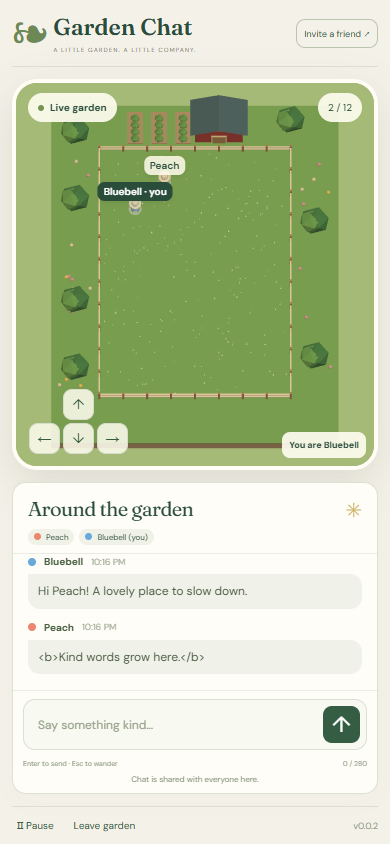
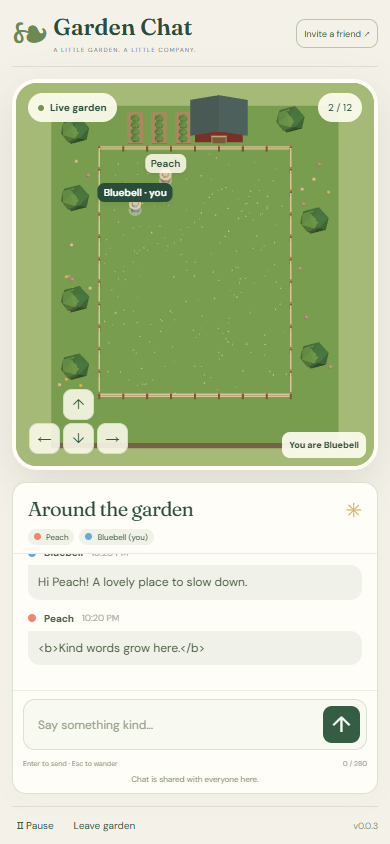
Record public release verification and complete OpenSpec delivery

Changed region(s): [[0.0615, 0.6469, 0.6462, 0.8009], [0.2462, 0.1848, 0.4923, 0.2464], [0.0615, 0.6469, 0.0923, 0.6777]]

diff --git a/project-name/documentation/verification.md b/project-name/documentation/verification.md
@@ -13,3 +13,15 @@
 - OpenSpec: four changes validated strictly. First three implementation systems verified; public delivery is completed after release/public checks.
 
 Public release verification will be recorded below after deployment.
+
+## Public release verified
+
+- Game release: v0.0.3, tag commit 48f1ef6, release workflow 36611172946 passed; Pages workflow 36611202705 passed.
+- Public URL: https://samuelasherrivello.github.io/babylon-lite-garden-chat/
+- Public version.txt returned version=0.0.3 and browser screenshot shows v0.0.3.
+- Full browser suite repeated successfully against that public URL: two independent sessions, rendering/assets, keyboard, collision, pause, focus safety, chat relay/plain-text rendering, late history, mobile touch emulation/layout, scroll preservation, leave/rejoin, blur release and unsupported GPU message. No supported-page runtime errors.
+- Shared service was independently extended by concurrent work to v0.5.0 during delivery. Public verification passed against live v0.5.0 while Garden Chat remains pinned to the compatible released v0.3.0 client. The Garden extension's own v0.3.0 release/deployment remains independently verified.
+- All 41 imported shared-library files and 37 Blender-package files match their source bytes.
+- Clean npm ci succeeded after stopping the local Vite processes that held Windows native module locks.
+- Canonical README screenshot refreshed from the actual public v0.0.3 game. Browser evidence: public-browser-verification.json.
+- Physical mobile hardware and long-lived production scaling remain unverified; experimental hosting and session-only history are documented.

diff --git a/README.md b/README.md
@@ -40,6 +40,8 @@ Uses [RMC Colyseus Multiplayer Server v0.3.0](https://github.com/SamuelAsherRive
 
 Experimental portfolio hosting: Vercel functions can expire around five minutes. Reconnection uses a fresh identity. Room closure, deployment or instance restart clears in-memory history; separate instances do not share state. There are no accounts, durable chat, private rooms or moderation tools. Chat is public to visitors. Full rooms display an explicit retry option.
 
+The public v0.0.3 browser checks also passed against shared backend v0.5.0 after concurrent backend releases; the game keeps its verified v0.3.0 client pin.
+
 ## Project Details
 
 `project-name/` remains the Vite application root according to template AGENTS.md; npm configuration stays at the repository root. `src/renderer.js` uses **Babylon Lite 1.32.0**, not full Babylon.js. `src/input.js` holds testable movement mapping; `src/main.js` owns lifecycle and safe text-only DOM chat rendering.

diff --git a/openspec/changes/archive/2026-09-29-public-delivery/tasks.md b/openspec/changes/archive/2026-09-29-public-delivery/tasks.md
@@ -4,5 +4,6 @@
 
 - [x] 1.1 Configure build, checks, Pages subpath and release workflow. Verify with build, release evidence and public browser checks.
 - [x] 1.2 Document controls, art provenance, exact original prompt and hosting limits. Verify with build, release evidence and public browser checks.
-- [ ] 1.3 Release, verify the public game with two browser sessions and synchronize checkout. Verify with build, release evidence and public browser checks.
+- [x] 1.3 Release, verify the public game with two browser sessions and synchronize checkout. Verify with build, release evidence and public browser checks.
+
 

diff --git a/openspec/specs/public-delivery/spec.md b/openspec/specs/public-delivery/spec.md
@@ -1,0 +1,14 @@
+# public-delivery Specification
+
+## Purpose
+Support the Garden Chat social experience through public delivery with verifiable visitor behavior.
+
+## Requirements
+
+### Requirement: Published experience
+The public repository and GitHub Pages build SHALL provide working multiplayer movement and chat, correct subpath assets, displayed release version and setup documentation.
+
+#### Scenario: Open public release
+- **WHEN** a visitor opens the released URL in a WebGPU browser
+- **THEN** the garden assets load and multiplayer connects without runtime errors
+
